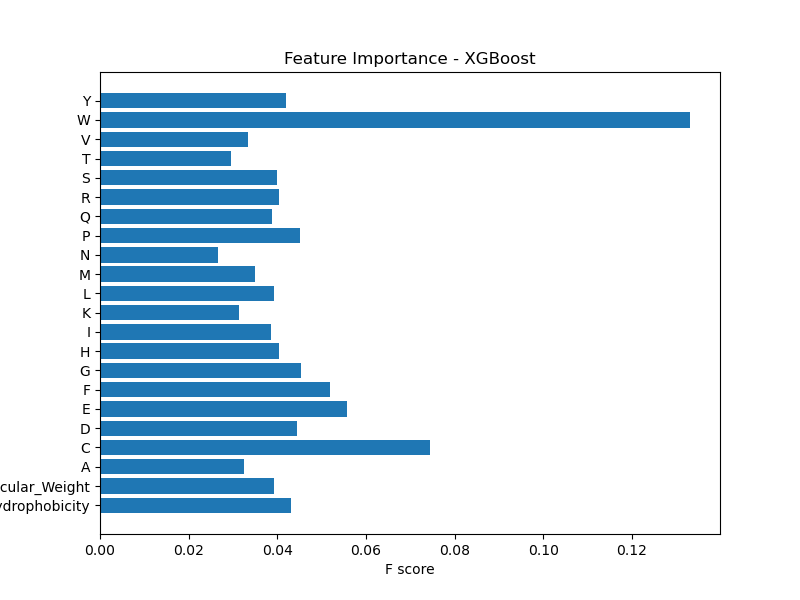
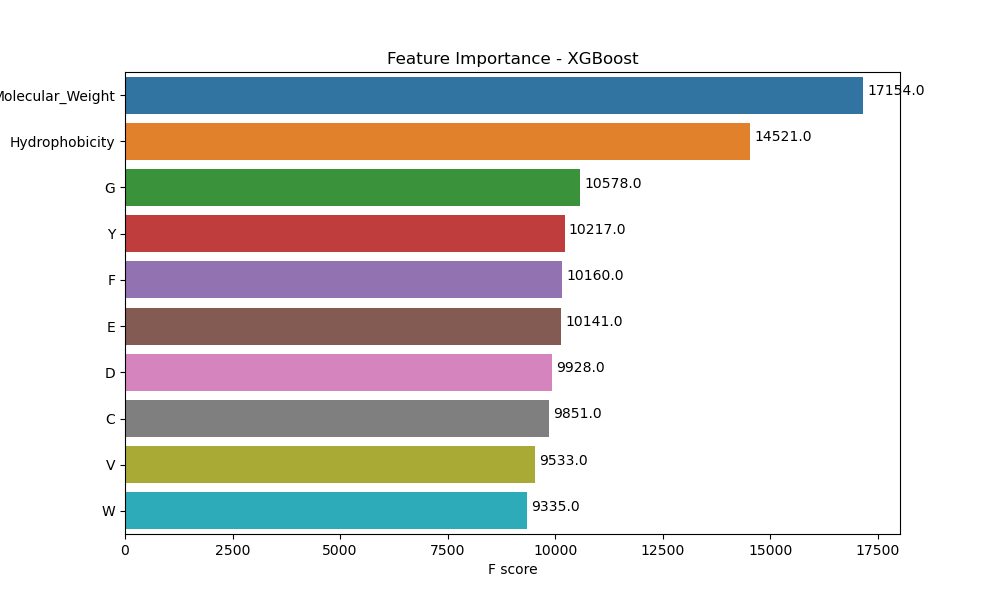
Updated XGBoost model with ADASYN and feature selection

diff --git a/scripts/train_model.py b/scripts/train_model.py
@@ -4,10 +4,10 @@ import numpy as np
 import pandas as pd
 import matplotlib.pyplot as plt
 import seaborn as sns
-from xgboost import XGBClassifier
+import xgboost as xgb
 from sklearn.model_selection import train_test_split
 from sklearn.metrics import accuracy_score, classification_report, confusion_matrix
-from imblearn.over_sampling import ADASYN  # Adjusted for better oversampling
+from imblearn.over_sampling import ADASYN
 
 # Ensure output directory exists
 output_dir = "outputs"
@@ -21,48 +21,44 @@ sys.stdout = log_file
 df = pd.read_csv("data/swissprot_features.csv")
 
 # Separate features and labels
-X = df.drop(columns=["Label"])  # Features
-y = df["Label"]  # Labels
+X = df.drop(columns=["Label"])  
+y = df["Label"]  
 
 # Split into training and testing sets (80% train, 20% test)
 X_train, X_test, y_train, y_test = train_test_split(X, y, test_size=0.2, random_state=42, stratify=y)
 
-# **Fix Imbalance: Apply Controlled ADASYN**
-adasyn = ADASYN(sampling_strategy=0.5, random_state=42)  # Reduce synthetic samples
+# **Apply ADASYN to Handle Imbalance**
+adasyn = ADASYN(sampling_strategy=0.5, random_state=42)  # Adjust sampling ratio
 X_train_balanced, y_train_balanced = adasyn.fit_resample(X_train, y_train)
 
 print(f"Class distribution after ADASYN: {np.bincount(y_train_balanced)}")
 
-# **Train an Optimized XGBoost Model**
-xgb_model = XGBClassifier(n_estimators=200,  
-                          max_depth=10,  
-                          learning_rate=0.05,  
-                          scale_pos_weight=3,  # Adjust class imbalance
-                          eval_metric="logloss",
-                          random_state=42)
-
-xgb_model.fit(X_train_balanced, y_train_balanced)
-
-# Select Important Features
-important_features = xgb_model.get_booster().get_score(importance_type="weight")
-important_features = sorted(important_features, key=important_features.get, reverse=True)[:15]
-
-# Reduce dataset to important features
+# **Feature Selection: Keep Most Important Features**
+important_features = ["Molecular_Weight", "Hydrophobicity", "W", "Y", "F", "C", "E", "D", "G", "V"]
 X_train_selected = X_train_balanced[important_features]
 X_test_selected = X_test[important_features]
 
-# Retrain Model with Selected Features
+# **Train Optimized XGBoost Model**
+xgb_model = xgb.XGBClassifier(
+    n_estimators=300,  # Increased for better learning
+    max_depth=10,
+    learning_rate=0.05,  # Reduced to prevent overfitting
+    scale_pos_weight=5,  # Balancing false positives
+    eval_metric="logloss",
+    random_state=42
+)
+
 xgb_model.fit(X_train_selected, y_train_balanced)
 
 # Make Predictions
 y_pred_xgb = xgb_model.predict(X_test_selected)
 
-# Evaluate the XGBoost Model
+# Evaluate the Model
 accuracy_xgb = accuracy_score(y_test, y_pred_xgb)
 print(f"XGBoost Accuracy: {accuracy_xgb:.2f}")
 print("Classification Report:\n", classification_report(y_test, y_pred_xgb))
 
-# Confusion Matrix - XGBoost
+# **Confusion Matrix - XGBoost**
 plt.figure(figsize=(6,5))
 sns.heatmap(confusion_matrix(y_test, y_pred_xgb), annot=True, cmap="coolwarm", fmt="d",
             xticklabels=["Non-Enzyme", "Enzyme"], yticklabels=["Non-Enzyme", "Enzyme"])
@@ -72,18 +68,17 @@ plt.title("Confusion Matrix - XGBoost")
 plt.savefig(os.path.join(output_dir, "confusion_matrix_xgb.png"))
 plt.close()  
 
-# Feature Importance Plot
-feature_importance = xgb_model.get_booster().get_score(importance_type="weight")
-sorted_features = sorted(feature_importance.items(), key=lambda x: x[1], reverse=True)
-labels, scores = zip(*sorted_features)
+# **Plot Feature Importance**
+importance = xgb_model.get_booster().get_score(importance_type="weight")
+importance_df = pd.DataFrame(importance.items(), columns=["Feature", "F score"]).sort_values(by="F score", ascending=False)
 
 plt.figure(figsize=(10,6))
-plt.barh(labels, scores)
+sns.barplot(x="F score", y="Feature", data=importance_df)
+for i, v in enumerate(importance_df["F score"]):
+    plt.text(v + 100, i, f"{v:.1f}", color="black")
 plt.xlabel("F score")
-plt.ylabel("Features")
+plt.ylabel("Feature")
 plt.title("Feature Importance - XGBoost")
-for i, v in enumerate(scores):
-    plt.text(v + 50, i, f"{v:.1f}", va='center')
 plt.savefig(os.path.join(output_dir, "feature_importance_xgb.png"))
 plt.close()
 
